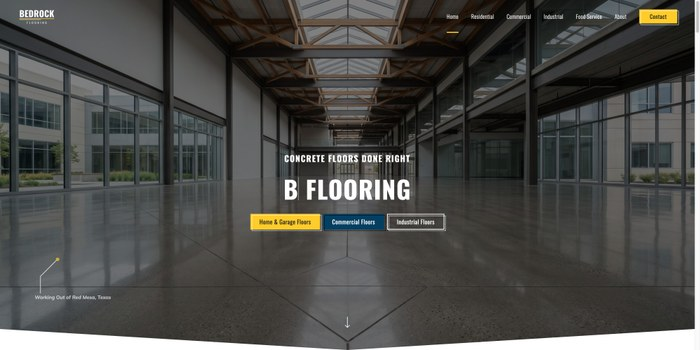
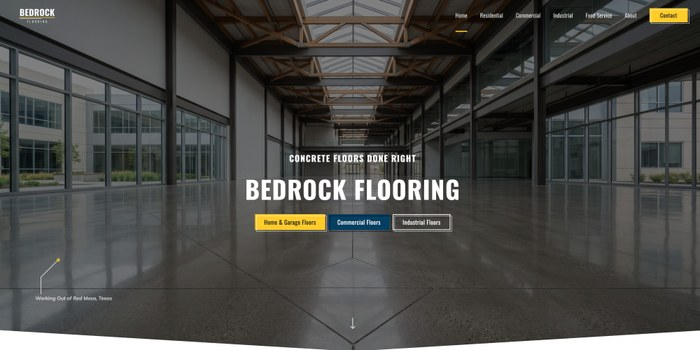
Move the demo to epsom.gallop.software; add the home hero video
Serve the site from epsom.gallop.software, add an optional looping video to
the hero banner, use a generated clip on the home page, and refresh the
screenshots.

diff --git a/src/app/(demo)/block/[[...slug]]/_block-index.ts b/src/app/(demo)/block/[[...slug]]/_block-index.ts
@@ -3,93 +3,57 @@
 
 import type { ComponentType } from 'react'
 
-export const blockImports: Record<
-  string,
-  () => Promise<{ default: ComponentType }>
-> = {
-  about: () => import('@/app/(hero)/_blocks/about'),
+export const blockImports: Record<string, () => Promise<{ default: ComponentType }>> = {
+  'about': () => import('@/app/(hero)/_blocks/about'),
   'about/brands': () => import('@/app/(hero)/about/_blocks/brands'),
   'about/cta': () => import('@/app/(hero)/about/_blocks/cta'),
   'about/hero': () => import('@/app/(hero)/about/_blocks/hero'),
   'about/intro': () => import('@/app/(hero)/about/_blocks/intro'),
   'about/story': () => import('@/app/(hero)/about/_blocks/story'),
-  brands: () => import('@/app/(hero)/_blocks/brands'),
+  'brands': () => import('@/app/(hero)/_blocks/brands'),
   'careers/careers': () => import('@/app/(default)/careers/_blocks/careers'),
-  'commercial-concrete-flooring/cta': () =>
-    import('@/app/(hero)/commercial-concrete-flooring/_blocks/cta'),
-  'commercial-concrete-flooring/feature': () =>
-    import('@/app/(hero)/commercial-concrete-flooring/_blocks/feature'),
-  'commercial-concrete-flooring/floor-types': () =>
-    import('@/app/(hero)/commercial-concrete-flooring/_blocks/floor-types'),
-  'commercial-concrete-flooring/gallery': () =>
-    import('@/app/(hero)/commercial-concrete-flooring/_blocks/gallery'),
-  'commercial-concrete-flooring/hero': () =>
-    import('@/app/(hero)/commercial-concrete-flooring/_blocks/hero'),
-  'commercial-concrete-flooring/intro': () =>
-    import('@/app/(hero)/commercial-concrete-flooring/_blocks/intro'),
-  'commercial-concrete-flooring/process': () =>
-    import('@/app/(hero)/commercial-concrete-flooring/_blocks/process'),
-  'commercial-concrete-flooring/projects': () =>
-    import('@/app/(hero)/commercial-concrete-flooring/_blocks/projects'),
-  'contact/contact-form': () =>
-    import('@/app/(default)/contact/_blocks/contact-form'),
+  'commercial-concrete-flooring/cta': () => import('@/app/(hero)/commercial-concrete-flooring/_blocks/cta'),
+  'commercial-concrete-flooring/feature': () => import('@/app/(hero)/commercial-concrete-flooring/_blocks/feature'),
+  'commercial-concrete-flooring/floor-types': () => import('@/app/(hero)/commercial-concrete-flooring/_blocks/floor-types'),
+  'commercial-concrete-flooring/gallery': () => import('@/app/(hero)/commercial-concrete-flooring/_blocks/gallery'),
+  'commercial-concrete-flooring/hero': () => import('@/app/(hero)/commercial-concrete-flooring/_blocks/hero'),
+  'commercial-concrete-flooring/intro': () => import('@/app/(hero)/commercial-concrete-flooring/_blocks/intro'),
+  'commercial-concrete-flooring/process': () => import('@/app/(hero)/commercial-concrete-flooring/_blocks/process'),
+  'commercial-concrete-flooring/projects': () => import('@/app/(hero)/commercial-concrete-flooring/_blocks/projects'),
+  'contact/contact-form': () => import('@/app/(default)/contact/_blocks/contact-form'),
   'contact/details': () => import('@/app/(default)/contact/_blocks/details'),
-  cta: () => import('@/app/(hero)/_blocks/cta'),
+  'cta': () => import('@/app/(hero)/_blocks/cta'),
   'faq/questions': () => import('@/app/(default)/faq/_blocks/questions'),
-  features: () => import('@/app/(hero)/_blocks/features'),
+  'features': () => import('@/app/(hero)/_blocks/features'),
   'floor-types': () => import('@/app/(hero)/_blocks/floor-types'),
-  'food-service-flooring/benefits': () =>
-    import('@/app/(hero)/food-service-flooring/_blocks/benefits'),
-  'food-service-flooring/cta': () =>
-    import('@/app/(hero)/food-service-flooring/_blocks/cta'),
-  'food-service-flooring/feature': () =>
-    import('@/app/(hero)/food-service-flooring/_blocks/feature'),
-  'food-service-flooring/gallery': () =>
-    import('@/app/(hero)/food-service-flooring/_blocks/gallery'),
-  'food-service-flooring/hero': () =>
-    import('@/app/(hero)/food-service-flooring/_blocks/hero'),
-  'food-service-flooring/kitchens': () =>
-    import('@/app/(hero)/food-service-flooring/_blocks/kitchens'),
-  'food-service-flooring/process': () =>
-    import('@/app/(hero)/food-service-flooring/_blocks/process'),
+  'food-service-flooring/benefits': () => import('@/app/(hero)/food-service-flooring/_blocks/benefits'),
+  'food-service-flooring/cta': () => import('@/app/(hero)/food-service-flooring/_blocks/cta'),
+  'food-service-flooring/feature': () => import('@/app/(hero)/food-service-flooring/_blocks/feature'),
+  'food-service-flooring/gallery': () => import('@/app/(hero)/food-service-flooring/_blocks/gallery'),
+  'food-service-flooring/hero': () => import('@/app/(hero)/food-service-flooring/_blocks/hero'),
+  'food-service-flooring/kitchens': () => import('@/app/(hero)/food-service-flooring/_blocks/kitchens'),
+  'food-service-flooring/process': () => import('@/app/(hero)/food-service-flooring/_blocks/process'),
   'gallery/gallery': () => import('@/app/(no-cta)/gallery/_blocks/gallery'),
-  hero: () => import('@/app/(hero)/_blocks/hero'),
-  'industrial-flooring/benefits': () =>
-    import('@/app/(hero)/industrial-flooring/_blocks/benefits'),
-  'industrial-flooring/contact': () =>
-    import('@/app/(hero)/industrial-flooring/_blocks/contact'),
-  'industrial-flooring/feature': () =>
-    import('@/app/(hero)/industrial-flooring/_blocks/feature'),
-  'industrial-flooring/floor-types': () =>
-    import('@/app/(hero)/industrial-flooring/_blocks/floor-types'),
-  'industrial-flooring/gallery': () =>
-    import('@/app/(hero)/industrial-flooring/_blocks/gallery'),
-  'industrial-flooring/hero': () =>
-    import('@/app/(hero)/industrial-flooring/_blocks/hero'),
-  'industrial-flooring/process': () =>
-    import('@/app/(hero)/industrial-flooring/_blocks/process'),
+  'hero': () => import('@/app/(hero)/_blocks/hero'),
+  'industrial-flooring/benefits': () => import('@/app/(hero)/industrial-flooring/_blocks/benefits'),
+  'industrial-flooring/contact': () => import('@/app/(hero)/industrial-flooring/_blocks/contact'),
+  'industrial-flooring/feature': () => import('@/app/(hero)/industrial-flooring/_blocks/feature'),
+  'industrial-flooring/floor-types': () => import('@/app/(hero)/industrial-flooring/_blocks/floor-types'),
+  'industrial-flooring/gallery': () => import('@/app/(hero)/industrial-flooring/_blocks/gallery'),
+  'industrial-flooring/hero': () => import('@/app/(hero)/industrial-flooring/_blocks/hero'),
+  'industrial-flooring/process': () => import('@/app/(hero)/industrial-flooring/_blocks/process'),
   'recent-projects': () => import('@/app/(hero)/_blocks/recent-projects'),
-  'residential-concrete-flooring/cta': () =>
-    import('@/app/(hero)/residential-concrete-flooring/_blocks/cta'),
-  'residential-concrete-flooring/feature': () =>
-    import('@/app/(hero)/residential-concrete-flooring/_blocks/feature'),
-  'residential-concrete-flooring/floor-types': () =>
-    import('@/app/(hero)/residential-concrete-flooring/_blocks/floor-types'),
-  'residential-concrete-flooring/gallery': () =>
-    import('@/app/(hero)/residential-concrete-flooring/_blocks/gallery'),
-  'residential-concrete-flooring/hero': () =>
-    import('@/app/(hero)/residential-concrete-flooring/_blocks/hero'),
-  'residential-concrete-flooring/process': () =>
-    import('@/app/(hero)/residential-concrete-flooring/_blocks/process'),
-  'residential-concrete-flooring/projects': () =>
-    import('@/app/(hero)/residential-concrete-flooring/_blocks/projects'),
-  'residential-concrete-flooring/testimonial': () =>
-    import('@/app/(hero)/residential-concrete-flooring/_blocks/testimonial'),
-  'schedule-free-estimate/header': () =>
-    import('@/app/(default)/schedule-free-estimate/_blocks/header'),
-  services: () => import('@/app/(hero)/_blocks/services'),
-  'specialties/header': () =>
-    import('@/app/(default)/specialties/_blocks/header'),
+  'residential-concrete-flooring/cta': () => import('@/app/(hero)/residential-concrete-flooring/_blocks/cta'),
+  'residential-concrete-flooring/feature': () => import('@/app/(hero)/residential-concrete-flooring/_blocks/feature'),
+  'residential-concrete-flooring/floor-types': () => import('@/app/(hero)/residential-concrete-flooring/_blocks/floor-types'),
+  'residential-concrete-flooring/gallery': () => import('@/app/(hero)/residential-concrete-flooring/_blocks/gallery'),
+  'residential-concrete-flooring/hero': () => import('@/app/(hero)/residential-concrete-flooring/_blocks/hero'),
+  'residential-concrete-flooring/process': () => import('@/app/(hero)/residential-concrete-flooring/_blocks/process'),
+  'residential-concrete-flooring/projects': () => import('@/app/(hero)/residential-concrete-flooring/_blocks/projects'),
+  'residential-concrete-flooring/testimonial': () => import('@/app/(hero)/residential-concrete-flooring/_blocks/testimonial'),
+  'schedule-free-estimate/header': () => import('@/app/(default)/schedule-free-estimate/_blocks/header'),
+  'services': () => import('@/app/(hero)/_blocks/services'),
+  'specialties/header': () => import('@/app/(default)/specialties/_blocks/header'),
 }
 
 export const blockSlugs = Object.keys(blockImports)

diff --git a/src/components/hero-banner.tsx b/src/components/hero-banner.tsx
@@ -5,8 +5,10 @@ import { Icon } from '@/components/icon'
 import { studioUrl } from '@/utils/studio-helpers'
 
 export interface HeroBannerProps {
-  /** Studio key of the background photo. */
+  /** Studio key of the background photo (also the video's poster). */
   image: string
+  /** Studio key of an optional looping background video (MP4, no sound). */
+  video?: string | undefined
   /** Bottom-left caption (desktop) / centred under the content (≤1023px). */
   caption?: string | undefined
   /** Scrim opacity over the photo (default `opacity-50`). */
@@ -19,11 +21,12 @@ export interface HeroBannerProps {
 }
 
 /**
- * Full-viewport photo hero with a chevron bottom edge (auto height
+ * Full-viewport photo (or looping video) hero with a chevron bottom edge (auto height
  * below 1024px).
  */
 export function HeroBanner({
   image,
+  video,
   caption,
   dim = 'opacity-50',
   overlayColor = 'bg-overlay',
@@ -44,6 +47,17 @@ export function HeroBanner({
         className="absolute inset-0 -z-2 bg-cover bg-center bg-no-repeat"
         style={{ backgroundImage: `url("${studioUrl(image, 'full')}")` }}
       />
+      {video && (
+        <video
+          className="absolute inset-0 -z-2 block h-full w-full object-cover"
+          src={studioUrl(video, 'full')}
+          poster={studioUrl(image, 'full')}
+          autoPlay
+          muted
+          loop
+          playsInline
+        />
+      )}
       <div className={clsx('absolute inset-0 z-1', overlayColor, dim)} />
       <div className="relative z-2 w-full px-[5%] lg:[@media(max-height:600px)]:py-17.5">
         <div className="mx-auto max-w-[1120px] [&>:last-child]:mb-0">

diff --git a/src/app/(hero)/_blocks/hero.tsx b/src/app/(hero)/_blocks/hero.tsx
@@ -9,6 +9,7 @@ export default function Hero() {
     <HeroBanner
       downLink="#feature"
       image="/heroes/hero-home.jpg"
+      video="/heroes/hero-home.mp4"
       caption="Working Out of Red Mesa, Texas"
     >
       <Heading

diff --git a/CLAUDE.md b/CLAUDE.md
@@ -2,7 +2,7 @@
 
 Epsom is a Next.js template for concrete floor contractors and specialty flooring companies, built on the Gallop Canon architecture system. Canon provides ESLint rules (`@gallop.software/canon/eslint`) and an audit CLI (`gallop audit`) that enforce the patterns below. The `CLAUDE.md` file is the canonical AI reference — there is no auto-generation pipeline.
 
-"Bedrock Flooring" of Red Mesa, Texas is fictional demo content, including its clients, customers, testimonials, phone and email. See **Rebranding** below. Photos are AI-generated demo images: replace them with your own. Every block is built from a theme's exact computed styles, so some class strings look unusual (`h-[50.656px]`, `px-[calc(min(90%,640px)*0.05)]`); keep them unless the design is changing.
+"Bedrock Flooring" of Red Mesa, Texas is fictional demo content, including its clients, customers, testimonials, phone and email. See **Rebranding** below. Photos and the home hero video are AI-generated demo media: replace them with your own. Every block is built from a theme's exact computed styles, so some class strings look unusual (`h-[50.656px]`, `px-[calc(min(90%,640px)*0.05)]`); keep them unless the design is changing.
 
 ## Rebranding: where company content lives
 
@@ -21,7 +21,7 @@ Company identity is not centralized in one config file; these are the places it 
 | Author name and archive | `src/components/post-hero.tsx`, `post-archive.tsx`, `src/utils/structured-data.ts`, `src/app/sitemap.ts`, `src/app/(default)/author/bedrock-flooring/` |
 | Page copy and SEO titles | each route's `page.tsx` and `_blocks/` |
 | Blog posts | `src/app/(post)/` (then `npm run blog`) |
-| Images | AI-generated demo photos in Gallop Studio (`/content/`, `/content/circles/`, `/heroes/`): upload your own with `gallop studio upload`, then update the paths |
+| Images and video | AI-generated demo media in Gallop Studio (`/content/`, `/content/circles/`, `/heroes/`, including `/heroes/hero-home.mp4`): upload your own with `gallop studio upload`, then update the paths |
 
 ## Auto-Generated Files — Never Edit Manually
 
@@ -202,7 +202,7 @@ All tokens live in `src/styles/tailwind.css` `@theme`.
 ## Component Quick Reference
 
 - **Primitives**: `Container` (content/wide column widths), `Columns` (plain `<div>` children keep the last child's bottom margin), `Section` (full-width band: background image or pattern, parallax, overlay), `Heading`, `Paragraph`, `Button`/`Buttons` (offset border; `textColor` for fills), `Quote` (+ `size="large"`), `List`, `Spacer`, `Image` (Studio-backed `<img>` with srcset), `Icon` (Iconify)
-- **Block families**: `hero-banner` (+ `typewriter-heading`, downLink), `image-filter`, `image-feature`, `icon-cards`, `sticky-scroll`, `estimate-cta`, `elegant-heading`, `post-cards`, `logo-gallery` (3 or 5 per row, optional caption), `showcase-gallery`, `process-steps`, `calendly-button` (optional `href` fallback)
+- **Block families**: `hero-banner` (photo or looping MP4 background; + `typewriter-heading`, downLink), `image-filter`, `image-feature`, `icon-cards`, `sticky-scroll`, `estimate-cta`, `elegant-heading`, `post-cards`, `logo-gallery` (3 or 5 per row, optional caption), `showcase-gallery`, `process-steps`, `calendly-button` (optional `href` fallback)
 - **Shared sections**: `our-process` (the four steps), `projects-band` (recent posts of a category), `brands` (client logos)
 - **Page parts**: `page-header` (white title band), `details` (FAQ accordion row), `team-grid` (ready for your team's photos; not on a page in the demo), `contact-icons`
 - **Blog**: `post-hero`, `post-body`, `post-gallery`, `post-archive` (cards + pagination)

diff --git a/README.md b/README.md
@@ -1,10 +1,10 @@
 # Epsom
 
-[![Epsom Theme](public/images/screenshot.jpg)](https://epsom-cloudflare.gallop.software/)
+[![Epsom Theme](public/images/screenshot.jpg)](https://epsom.gallop.software/)
 
 A bold, AI-built website template for concrete floor contractors and specialty flooring companies. Show off your services and project galleries, take free-estimate requests and bookings, look more professional than the competition, and rank #1 on Google, all without a CMS.
 
-**☁ Demo:** [epsom-cloudflare.gallop.software](https://epsom-cloudflare.gallop.software/)  
+**☁ Demo:** [epsom.gallop.software](https://epsom.gallop.software/)  
 **🎨 Template:** [gallop.software/templates](https://gallop.software/templates)  
 **📦 Repository:** [github.com/gallop-software/epsom](https://github.com/gallop-software/epsom)  
 **🏷 Category:** Flooring Contractor Template
@@ -286,7 +286,7 @@ Connect with other Gallop users on Discord or Slack. Share your progress, swap A
 
 ## Rebranding
 
-"Bedrock Flooring" of Red Mesa, Texas is fictional demo content, including its clients, customers, testimonials, phone and email. Photos are AI-generated demo images. Replace them, and the copy, with your own before you publish.
+"Bedrock Flooring" of Red Mesa, Texas is fictional demo content, including its clients, customers, testimonials, phone and email. Photos and the home hero video are AI-generated demo media. Replace them, and the copy, with your own before you publish.
 
 | What | Where |
 |---|---|
@@ -361,7 +361,7 @@ Congratulations! Your site is now live to the world. Share your new URL and star
 
 ### Deploy to Cloudflare Workers
 
-Epsom runs on Cloudflare Workers via the [OpenNext](https://opennext.js.org/cloudflare) adapter. See it live: **[epsom-cloudflare.gallop.software](https://epsom-cloudflare.gallop.software/)**.
+Epsom runs on Cloudflare Workers via the [OpenNext](https://opennext.js.org/cloudflare) adapter. See it live: **[epsom.gallop.software](https://epsom.gallop.software/)**.
 
 **Step 1 — Connect Cloudflare in the Publish view** (`Cmd+6`). Once saved, the editor puts your Cloudflare credentials (`CLOUDFLARE_API_TOKEN` and `CLOUDFLARE_ACCOUNT_ID`) into the terminal environment and makes them available to the AI chat. Wrangler reads those variables automatically, which means **nobody has to run `npx wrangler login`, and no token is ever pasted into a file.**
 

diff --git a/CHANGELOG.md b/CHANGELOG.md
@@ -9,6 +9,7 @@
 - Rebrand the demo to the fictional Bedrock Flooring; `NEXT_PUBLIC_CALENDLY_URL` sets the booking link
 - Rewrite all copy; replace all photos and videos with AI-generated demo images
 - Remove the HLS video player and video posts; video sections are now photo features
+- Home page hero is a looping AI-generated video
 
 ## 2026-10-12
 
